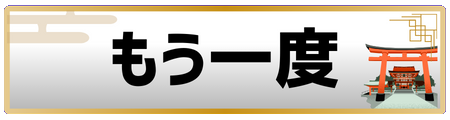
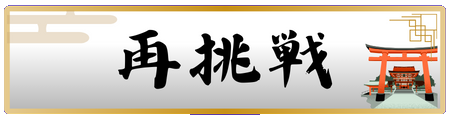
Update frontend.

Changed region(s): [[0.2489, 0.225, 0.7778, 0.75], [0.4044, 0.95, 0.5911, 0.975]]

diff --git a/data.js b/data.js
@@ -5,7 +5,7 @@ const COLSET = {green: '#116D4E', brown:'#4E3636'};
 const TIME_MAX = 60; // ゲーム時間（秒）
 const COMBO_TILE_SIZE_SCALE = 0.55;
 
-const buttonList = ['start', 'entry', 'retry', 'backToHome']; // img内に'button_XXX' のファイルを用意する
+const buttonList = ['start', 'entry', 'retry', 'backToHome']; // img内に'button_XXX.png' のファイルを用意する
 const otherImagesList = ['logo', 'howto', 'gauge', 'gauge_full', 'value_tiles', 'all_simples', 'reach', 'double_run']; // img内に'XX.webp'のファイルを用意する
 const animationImagesList = [{id:'explosion', cntW:5, cntH:3, maxCnt:15}]
 const textImageList = ['0','1','2','3','4','5','6','7','8','9','colon', 'combo'];
@@ -105,6 +105,7 @@ class MyImage{
         this.h = size;
         this.w = size / imageFiles[kind].height * imageFiles[kind].width;
         this.wave = false;
+        this.scale = 1;
         if(this.x == 'center'){
             this.x = (WIDTH - this.w)/2;
         }
@@ -119,7 +120,7 @@ class MyImage{
             ctx2d.fillStyle="#00000060";
             ctx2d.fillRect(this.x+5, drawy+5, this.w, this.h);
         }    
-        ctx2d.drawImage(imageFiles[this.kind], this.x, drawy, this.w, this.h);
+        ctx2d.drawImage(imageFiles[this.kind], this.x + this.w * (1 - this.scale) / 2, drawy + this.h * (1 - this.scale) / 2, this.w * this.scale, this.h * this.scale);
     }
 }
 
@@ -156,7 +157,6 @@ class Button extends MyImage{
 class Timer extends MyImage{
     constructor(x, y, size){
         super('1', x, y, size);
-        this.w = size / 8 * 5 * 2;
     }
     draw(){
         var sec = Math.floor(TIME_MAX - (performance.now() - gameData.gameStartTime)/1000);
@@ -179,7 +179,7 @@ class Timer extends MyImage{
             if(imageFiles[s[i]] == null) {
                 s[i] = '0';
             }
-            ctx2d.drawImage(imageFiles[s[i]], this.x + i * this.w / 2, this.y, this.w / 2, this.h);
+            ctx2d.drawImage(imageFiles[s[i]], this.x + this.h/4+ (i-1) * this.w * 0.75, this.y, this.w, this.h);
         }  
     }
 }
@@ -188,7 +188,7 @@ class ScoreBoard extends MyImage{
         super('1', x, y, size);
         this.score = gameData.score;
         // 常に横幅は5文字分確保しておく
-        this.x-=this.w * 2.5;
+        this.x+=this.w * 0.5;
         this.w*=5;
         this.drawScale = 1;
     }
@@ -207,7 +207,7 @@ class ScoreBoard extends MyImage{
         this.freshScore();
         var drawScore = Math.round(Math.min(99999, Math.max(0, this.score)));
         for (var i = 0; i < String(drawScore).length; i++){
-            ctx2d.drawImage(imageFiles[String(drawScore)[i]], (this.x + this.w / 2) + i * this.w * this.drawScale / 4 - String(drawScore).length * this.w * this.drawScale / 8, this.y + (1 - this.drawScale) * this.h / 2, this.w * this.drawScale / 4, this.h * this.drawScale);
+            ctx2d.drawImage(imageFiles[String(drawScore)[i]], (this.x) + (i-String(drawScore).length/2) * this.w * 0.7 * this.drawScale / 5, this.y + (1 - this.drawScale) * this.h / 2, this.w * this.drawScale / 4, this.h * this.drawScale);
         }
     }
 }
@@ -244,7 +244,7 @@ class MyRichImage extends MyImage{
     }
     draw(){
         if(this.animationKind == 2){
-            
+            this.scale = 1 + 1 - ((t - this.initialTime) / this.time);
         }
         if(performance.now() > this.initialTime && performance.now() - this.initialTime < this.time){
             super.draw();

diff --git a/script.js b/script.js
@@ -67,6 +67,8 @@ function drawGame(){//ゲーム画面の描画
 
 function drawResult(){//リザルト画面の描画
     ctx2d.clearRect(0, 0, WIDTH, HEIGHT);
+    ctx2d.fillStyle = COLSET['green'];
+    ctx2d.fillRect(0, 0, WIDTH, HEIGHT);
     for(i = 0; i < resultObjList.length; i++){
         resultObjList[i].draw();
     }
@@ -120,7 +122,7 @@ function setMode(nextMode){
         titleObjList = [];
         titleObjList.push(new MyImage('logo', 'center', HEIGHT*0.2, titleLogoHeight));
         titleObjList.push(new Button('start', WIDTH/2 - (menuButtonHeight / 120 * 450 / 2), HEIGHT*0.5, menuButtonHeight));
-        titleObjList.push(new MyImage('howto', 'center', HEIGHT*0.7, titleLogoHeight));
+        titleObjList.push(new MyImage('howto', 'center', HEIGHT*0.65, titleLogoHeight));
     } else if(nextMode == 1){
         startGame();
         mainBGM.play();
@@ -128,7 +130,7 @@ function setMode(nextMode){
         // リザルト画面に遷移するとき
         resultObjList.push(new Button('retry', WIDTH/2 - (menuButtonHeight / 120 * 450 / 2), (HEIGHT - menuButtonHeight)/2 - menuButtonHeight * 1.2, menuButtonHeight));
         resultObjList.push(new Button('entry', WIDTH/2 - (menuButtonHeight / 120 * 450 / 2), (HEIGHT - menuButtonHeight)/2, menuButtonHeight));
-        resultObjList.push(new ScoreBoard('center', 230, HEIGHT*0.2));
+        resultObjList.push(new ScoreBoard('center', 230, 100));
         mainBGM.stop();
     }
     mode = nextMode;
